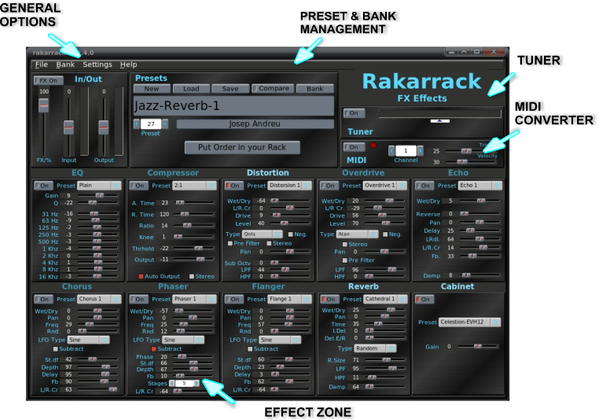
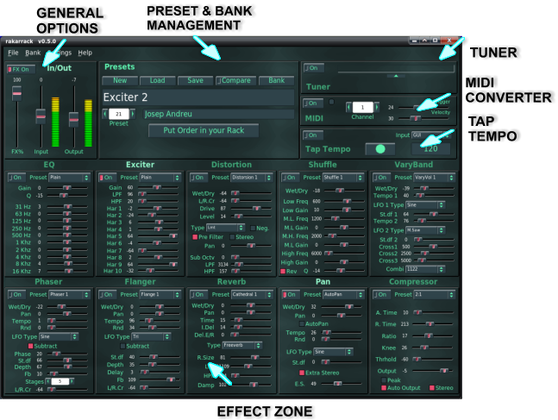
modified:   doc/help/help.html 	modified:   doc/help/imagenes/Makefile.am 	modified:   doc/help/imagenes/screen.png 	new file:   doc/help/imagenes/tap.jpg

diff --git a/doc/help/help.html b/doc/help/help.html
@@ -4,6 +4,8 @@
 
 
 
+
+
   
   <meta http-equiv="CONTENT-TYPE" content="text/html; charset=utf-8"><title>Rakarrack Help</title>
   
@@ -72,7 +74,10 @@ Expander</a> <a href="#har">Harmonizer</a> <a href="#delm">Musical
 Delay</a> <a href="#gate">Noise Gate</a> <a href="#wha">WhaWha</a> <a href="#awha">AlienWha</a>&nbsp;<a href="#dere">Derelict</a>&nbsp;<a href="#Valve">Valve</a>&nbsp;<a href="#Dual_Flange">Dual Flange</a>&nbsp;<a href="#Ring">Ring</a>&nbsp;<a href="#Exciter">Exciter</a>&nbsp;<a href="#DistBand">DistBand</a>&nbsp;<a href="#Arpie">Arpie</a>&nbsp;<a href="#Expander">Expander</a>&nbsp;<a href="#Shuffle">Shuffle</a>&nbsp;<a href="#Synthfilter">Synthfilter</a>&nbsp;<a href="#VaryBand">VaryBand</a>&nbsp;<a href="#Convolotron">Convolotron</a>&nbsp;<a href="#Looper">Looper</a>&nbsp;<a href="#MuTroMojo">MuTroMojo</a> </p>
       <h3><a href="#midi">MIDI Converter</a></h3>
       <h3><a href="#tuner">Tuner</a></h3>
+      <h3><a href="#Tap">Tap Tempo</a><br>
+</h3>
       <h3><a href="#autores">Credits</a></h3>
+
       <h3><a href="#midispec">MIDI Implementation Chart</a></h3>
       <h3><a href="license.html">License</a></h3>
       </td>
@@ -1815,14 +1820,30 @@ MIDI message, of course.</p>
 <p><a href="#top">Contents</a> </p>
 
 <hr>
-<h2 class="western"><a name="tuner"></a>TUNER</h2>
+<h2 class="western"><a name="tuner"></a>Tuner</h2>
 
 <p><img style="border: 0px solid ; width: 346px; height: 129px;" src="imagenes/tuner1.png" name="graphics33" alt="rakarrack Tuner"></p>
 
 <p align="justify">When "Your frequency" is outside the acceptable
 range is shown in red.</p>
 
-<p><a href="#top">Contents</a> </p>
+<p><a href="#top">Contents</a></p>
+<hr style="width: 100%; height: 2px;">
+<h2 class="western"><a name="Tap"></a>Tap Tempo</h2>
+<p><img style="width: 346px; height: 78px;" alt="Tap Tempo" src="imagenes/tap.jpg"></p>
+
+<p>The imput widget select the incoming signal:</p>
+
+<p>GUI can be the computer keyboard key "G" or the mouse clicking on the record
+button.</p>
+<p>MIDI signal is triggered each MIDI Note On message is incomming.</p>
+
+<p>Sucesive tempo signals are displayed each time a signal is received and
+the Tempo parameter is updated on all the effects that has the "On"
+state.</p>
+
+<p><a href="help.html#top">Contents</a></p>
+
 
 <hr>
 <h2 class="western"><a name="autores"></a>Credits</h2>
